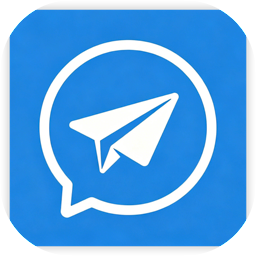
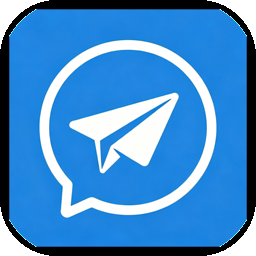
R4.49: 后台缓存列表已完成自动移除、调度设置收敛至运行诊断页（去重复入口）、模式文案按真实行为优化、桌面图标飞牛风格大圆角（升版 2.6.27）

Changed region(s): [[0.0, 0.0, 1.0, 1.0]]

diff --git a/client/src/main.jsx b/client/src/main.jsx
@@ -1033,7 +1033,7 @@ function AdminPanel({ accounts, accountId, canAdmin, onAccountChange, onAccountL
               <span><b>任务数</b>{downloaderState.tasks?.length || downloaderState.taskCount || 0}</span>
               <span><b>并发</b>{downloaderState.config?.concurrency || "-"}</span>
               <span><b>限速</b>{downloaderState.config?.rateLimitBps ? `${formatBytes(downloaderState.config.rateLimitBps)}/s` : "不限速"}</span>
-              <span><b>模式</b>{downloaderState.config?.mode === "fast" ? "高速" : "保守"}</span>
+              <span><b>模式</b>{downloaderState.config?.mode === "fast" ? "高速（并行）" : "稳妥（串行）"}</span>
               {/* R4.25：调度可见化。坑位数与有效在跑数不一致时说明存在僵尸占位
                   （2.6.2 「运行中 1/1 却全部排队中」的矛盾正是这样出现的）。 */}
               <span><b>调度</b>{`${downloaderState.running ?? 0} 在跑 / ${downloaderState.runningSlots ?? 0} 坑位`}</span>
@@ -1054,8 +1054,8 @@ function AdminPanel({ accounts, accountId, canAdmin, onAccountChange, onAccountL
                 <option value={String(10 * 1024 * 1024)}>10 MB/s</option>
               </select></label>
               <label><span>Go 模式</span><select value={downloaderState.config?.mode || "conservative"} onChange={(e) => saveDownloaderConfig({ mode: e.target.value })}>
-                <option value="conservative">保守</option>
-                <option value="fast">高速</option>
+                <option value="conservative">稳妥模式（单任务串行，最稳）</option>
+                <option value="fast">高速模式（多任务并行下载）</option>
               </select></label>
               {/* R4.23：移除「媒体源传输层」下拉——单一 Go 原生 MTProto 后无意义，
                   旧入口还会把任务建到已自环的 http-bridge 上（2.6.0 后台缓存全挂的帮凶）。 */}
@@ -1132,7 +1132,7 @@ function AdminPanel({ accounts, accountId, canAdmin, onAccountChange, onAccountL
               <span><b>读取样本</b>{formatBytes(cacheSpeedTest.result?.bytesRead || 0)}</span>
               <span><b>耗时</b>{cacheSpeedTest.result?.durationMs ? `${cacheSpeedTest.result.durationMs} ms` : "-"}</span>
               <span><b>降级次数</b>{cacheSpeedTest.result?.fallbackCount || 0}</span>
-              <span><b>缓存模式</b>{cacheSpeedTest.cacheMode === "fast" ? "高速" : "保守"}</span>
+              <span><b>缓存模式</b>{cacheSpeedTest.cacheMode === "fast" ? "高速（并行）" : "稳妥（串行）"}</span>
             </div>
             {cacheSpeedTest.task && <div className="diagnostics-paths">
               <p><strong>测试文件</strong>{cacheSpeedTest.task.fileName || "Telegram 视频"}</p>
@@ -1320,6 +1320,9 @@ function CachePanel({ silentCacheState = {}, silentCaches = [], onRefresh, onCon
   }
 
   const conservative = (silentCacheState.mode || "conservative") !== "fast";
+  /* R4.49：已完成任务自动移出后台缓存列表——它们已收录进「资源库」，
+     继续展示只会让列表越积越长；取消/失败任务仍保留，便于排查与重新排队。 */
+  const activeCaches = useMemo(() => silentCaches.filter((task) => task.status !== "completed"), [silentCaches]);
   return (
     <div className="silent-cache-panel">
       <div className="silent-cache-head">
@@ -1329,38 +1332,22 @@ function CachePanel({ silentCacheState = {}, silentCaches = [], onRefresh, onCon
       {/* R4.46：引擎说明——下载统一走 Go 原生 MTProto（gotd 官方下载内核），
           此处只控制「后台缓存」这类自动任务的调度策略，与手动下载共用同一引擎。 */}
       <p className="silent-cache-engine">下载引擎：Go 原生 MTProto（gotd 官方下载内核）· 支持断点续传与限流自动等待</p>
-      <div className="silent-cache-controls">
-        <label className="check-row"><input type="checkbox" checked={silentCacheState.enabled !== false} onChange={(e) => onControl?.({ enabled: e.target.checked })} /><span>{silentCacheState.enabled !== false ? "已开启后台缓存" : "已暂停后台缓存"}</span></label>
-        <label><span>最大缓存速率</span><select value={String(silentCacheState.rateLimitBps || 0)} onChange={(e) => onControl?.({ rateLimitBps: Number(e.target.value) })}>
-          <option value="0">不限速</option>
-          <option value={String(512 * 1024)}>512 KB/s</option>
-          <option value={String(1024 * 1024)}>1 MB/s</option>
-          <option value={String(2 * 1024 * 1024)}>2 MB/s</option>
-          <option value={String(5 * 1024 * 1024)}>5 MB/s</option>
-          <option value={String(10 * 1024 * 1024)}>10 MB/s</option>
-        </select></label>
-        <label><span>缓存模式</span><select value={silentCacheState.mode || "conservative"} onChange={(e) => onControl?.({ mode: e.target.value })}>
-          <option value="conservative">保守模式（同账号单任务）</option>
-          <option value="fast">跨账号高速模式</option>
-        </select></label>
-        <label><span>并发数量</span><select value={String(silentCacheState.concurrency || 1)} disabled={conservative} onChange={(e) => onControl?.({ concurrency: Number(e.target.value) })}>
-          {[1, 2, 3, 4, 5, 10].map((value) => <option value={String(value)} key={value}>{value}</option>)}
-        </select></label>
-      </div>
-      {conservative && <p className="silent-cache-hint">保守模式下并发固定为 1（同账号单任务）；如需多任务并行，请切换到「跨账号高速模式」。</p>}
+      {/* R4.49：调度控件（开关/速率/并发/模式）与诊断页「Go 下载服务」下发同一份 Go 配置，
+          属重复入口——统一收敛到运行诊断页，此处只保留状态展示与任务列表。 */}
+      <p className="silent-cache-hint">调度设置（开关 / 限速 / 并发 / 模式）已统一移至「运行诊断 → Go 下载服务」。</p>
       <div className="cache-runtime-summary">
         <span><b>运行中</b>{silentCacheState.running || 0} / {silentCacheState.effectiveConcurrency || 1}{conservative ? "（保守模式）" : ""}</span>
         {/* R4.23：移除「传输层 HTTP 回退」统计——单一 Go 原生 MTProto 后恒定，且「回退」一词易误导。 */}
-        <span><b>任务数</b>{silentCaches.length}</span>
+        <span><b>任务数</b>{activeCaches.length}</span>
       </div>
       {error && <p className="error">{error}</p>}
-      {silentCaches.length > 0 && <div className="silent-cache-bulk">
-        <button type="button" className="icon-button" onClick={() => setSelectedIds(silentCaches.filter((task) => task.status !== "completed").map((task) => task.id))}>全选当前</button>
+      {activeCaches.length > 0 && <div className="silent-cache-bulk">
+        <button type="button" className="icon-button" onClick={() => setSelectedIds(activeCaches.map((task) => task.id))}>全选当前</button>
         <button type="button" className="icon-button" onClick={() => setSelectedIds([])} disabled={!selectedIds.length}>清空选择</button>
         <button type="button" className="icon-button danger-button" onClick={cancelSelected} disabled={!selectedIds.length}>取消选中{selectedIds.length ? ` (${selectedIds.length})` : ""}</button>
       </div>}
       <div className="silent-cache-list">
-        {silentCaches.map((task) => {
+        {activeCaches.map((task) => {
           const progress = task.size ? Math.min(100, Math.round((Number(task.downloaded || 0) / Number(task.size)) * 100)) : 0;
           const statusText = task.status === "running" || task.status === "downloading" ? "下载中" : task.status === "queued" ? "排队中" : task.status === "paused" ? "已暂停" : task.status === "completed" ? "已完成" : task.status === "cancelled" ? "已取消" : "失败";
           return (
@@ -1393,7 +1380,7 @@ function CachePanel({ silentCacheState = {}, silentCaches = [], onRefresh, onCon
             </div>
           );
         })}
-        {!silentCaches.length && <div className="empty">暂无群视频后台缓存任务</div>}
+        {!activeCaches.length && <div className="empty">暂无进行中的缓存任务——已完成的视频请在「资源库」查看</div>}
       </div>
     </div>
   );
@@ -1427,7 +1414,7 @@ function DownloadCenter({ open, downloads, onStart, onCancel, onClear, onDelete,
         </header>
         <div className="fn-tabs download-tabs">
           <button className={cx("fn-tab", tab === "tasks" && "active")} onClick={() => onTabChange?.("tasks")}>下载任务{deduped.length ? ` (${deduped.length})` : ""}</button>
-          <button className={cx("fn-tab", tab === "cache" && "active")} onClick={() => { onTabChange?.("cache"); onRefreshSilentCaches?.(); }}>后台缓存{silentCaches.length ? ` (${silentCaches.length})` : ""}</button>
+          <button className={cx("fn-tab", tab === "cache" && "active")} onClick={() => { onTabChange?.("cache"); onRefreshSilentCaches?.(); }}>后台缓存{silentCaches.some((t) => t.status !== "completed") ? ` (${silentCaches.filter((t) => t.status !== "completed").length})` : ""}</button>
         </div>
         {tab === "cache" ? <CachePanel
           silentCacheState={silentCacheState}

diff --git a/server/src/releaseContent.js b/server/src/releaseContent.js
@@ -14,6 +14,19 @@ const about = {
 
 const announcements = [
   {
+    id: "release-2.6.27",
+    title: "Feigram 2.6.27 更新",
+    version: "2.6.27",
+    level: "success",
+    createdAt: "2026-09-24T22:29:56.000Z",
+    body: [
+"后台缓存列表：已完成的任务自动移出列表（在「资源库」查看），列表与角标只显示进行中的任务",
+      "后台缓存面板：调度设置（开关/限速/并发/模式）与运行诊断页重复，统一收敛到「运行诊断 → Go 下载服务」，面板只保留状态展示与任务列表",
+      "模式功能确认有效（保守=单任务串行、高速=多任务并行），文案按真实行为优化为「稳妥模式（单任务串行）/高速模式（多任务并行）」",
+      "桌面应用图标更新为飞牛官方风格大圆角"
+    ].join("\n")
+  },
+  {
     id: "release-2.6.26",
     title: "Feigram 2.6.26 更新",
     version: "2.6.26",
@@ -56,17 +69,6 @@ const announcements = [
       "账号管理：重新登录按钮移到退出按钮之前",
       "桌面图标名称改为 feigram",
       "修复网络抖动时 waitSession: connection dead / engine forcibly closed 被误判为终态失败"
-    ].join("\n")
-  },
-  {
-    id: "release-2.6.22",
-    title: "Feigram 2.6.22 更新",
-    version: "2.6.22",
-    level: "success",
-    createdAt: "2026-09-24T13:55:37.000Z",
-    body: [
-"- 升级后不再需要手动重试：此前因 FLOOD_PREMIUM_WAIT（免费账号带宽限流）被误判终态失败的任务，升级到本版会自动复活为排队并续传（2.6.21 升级后下载页躺尸的根因：升级复活清单漏了这个新错误文案）",
-      "- 手动「开始」仍可用：强制重启 + 断点续传"
     ].join("\n")
   },
 ];

diff --git a/docs/release-notes.md b/docs/release-notes.md
@@ -1,5 +1,12 @@
 # Feigram Public 发布说明
 
+## 版本 2.6.27
+
+- 后台缓存列表：已完成的任务自动移出列表（在「资源库」查看），列表与角标只显示进行中的任务
+- 后台缓存面板：调度设置（开关/限速/并发/模式）与运行诊断页重复，统一收敛到「运行诊断 → Go 下载服务」，面板只保留状态展示与任务列表
+- 模式功能确认有效（保守=单任务串行、高速=多任务并行），文案按真实行为优化为「稳妥模式（单任务串行）/高速模式（多任务并行）」
+- 桌面应用图标更新为飞牛官方风格大圆角
+
 ## 版本 2.6.26
 
 - 资源库「已缓存」徽标改为绿色，与「缓存中」（黄色）状态明确区分
